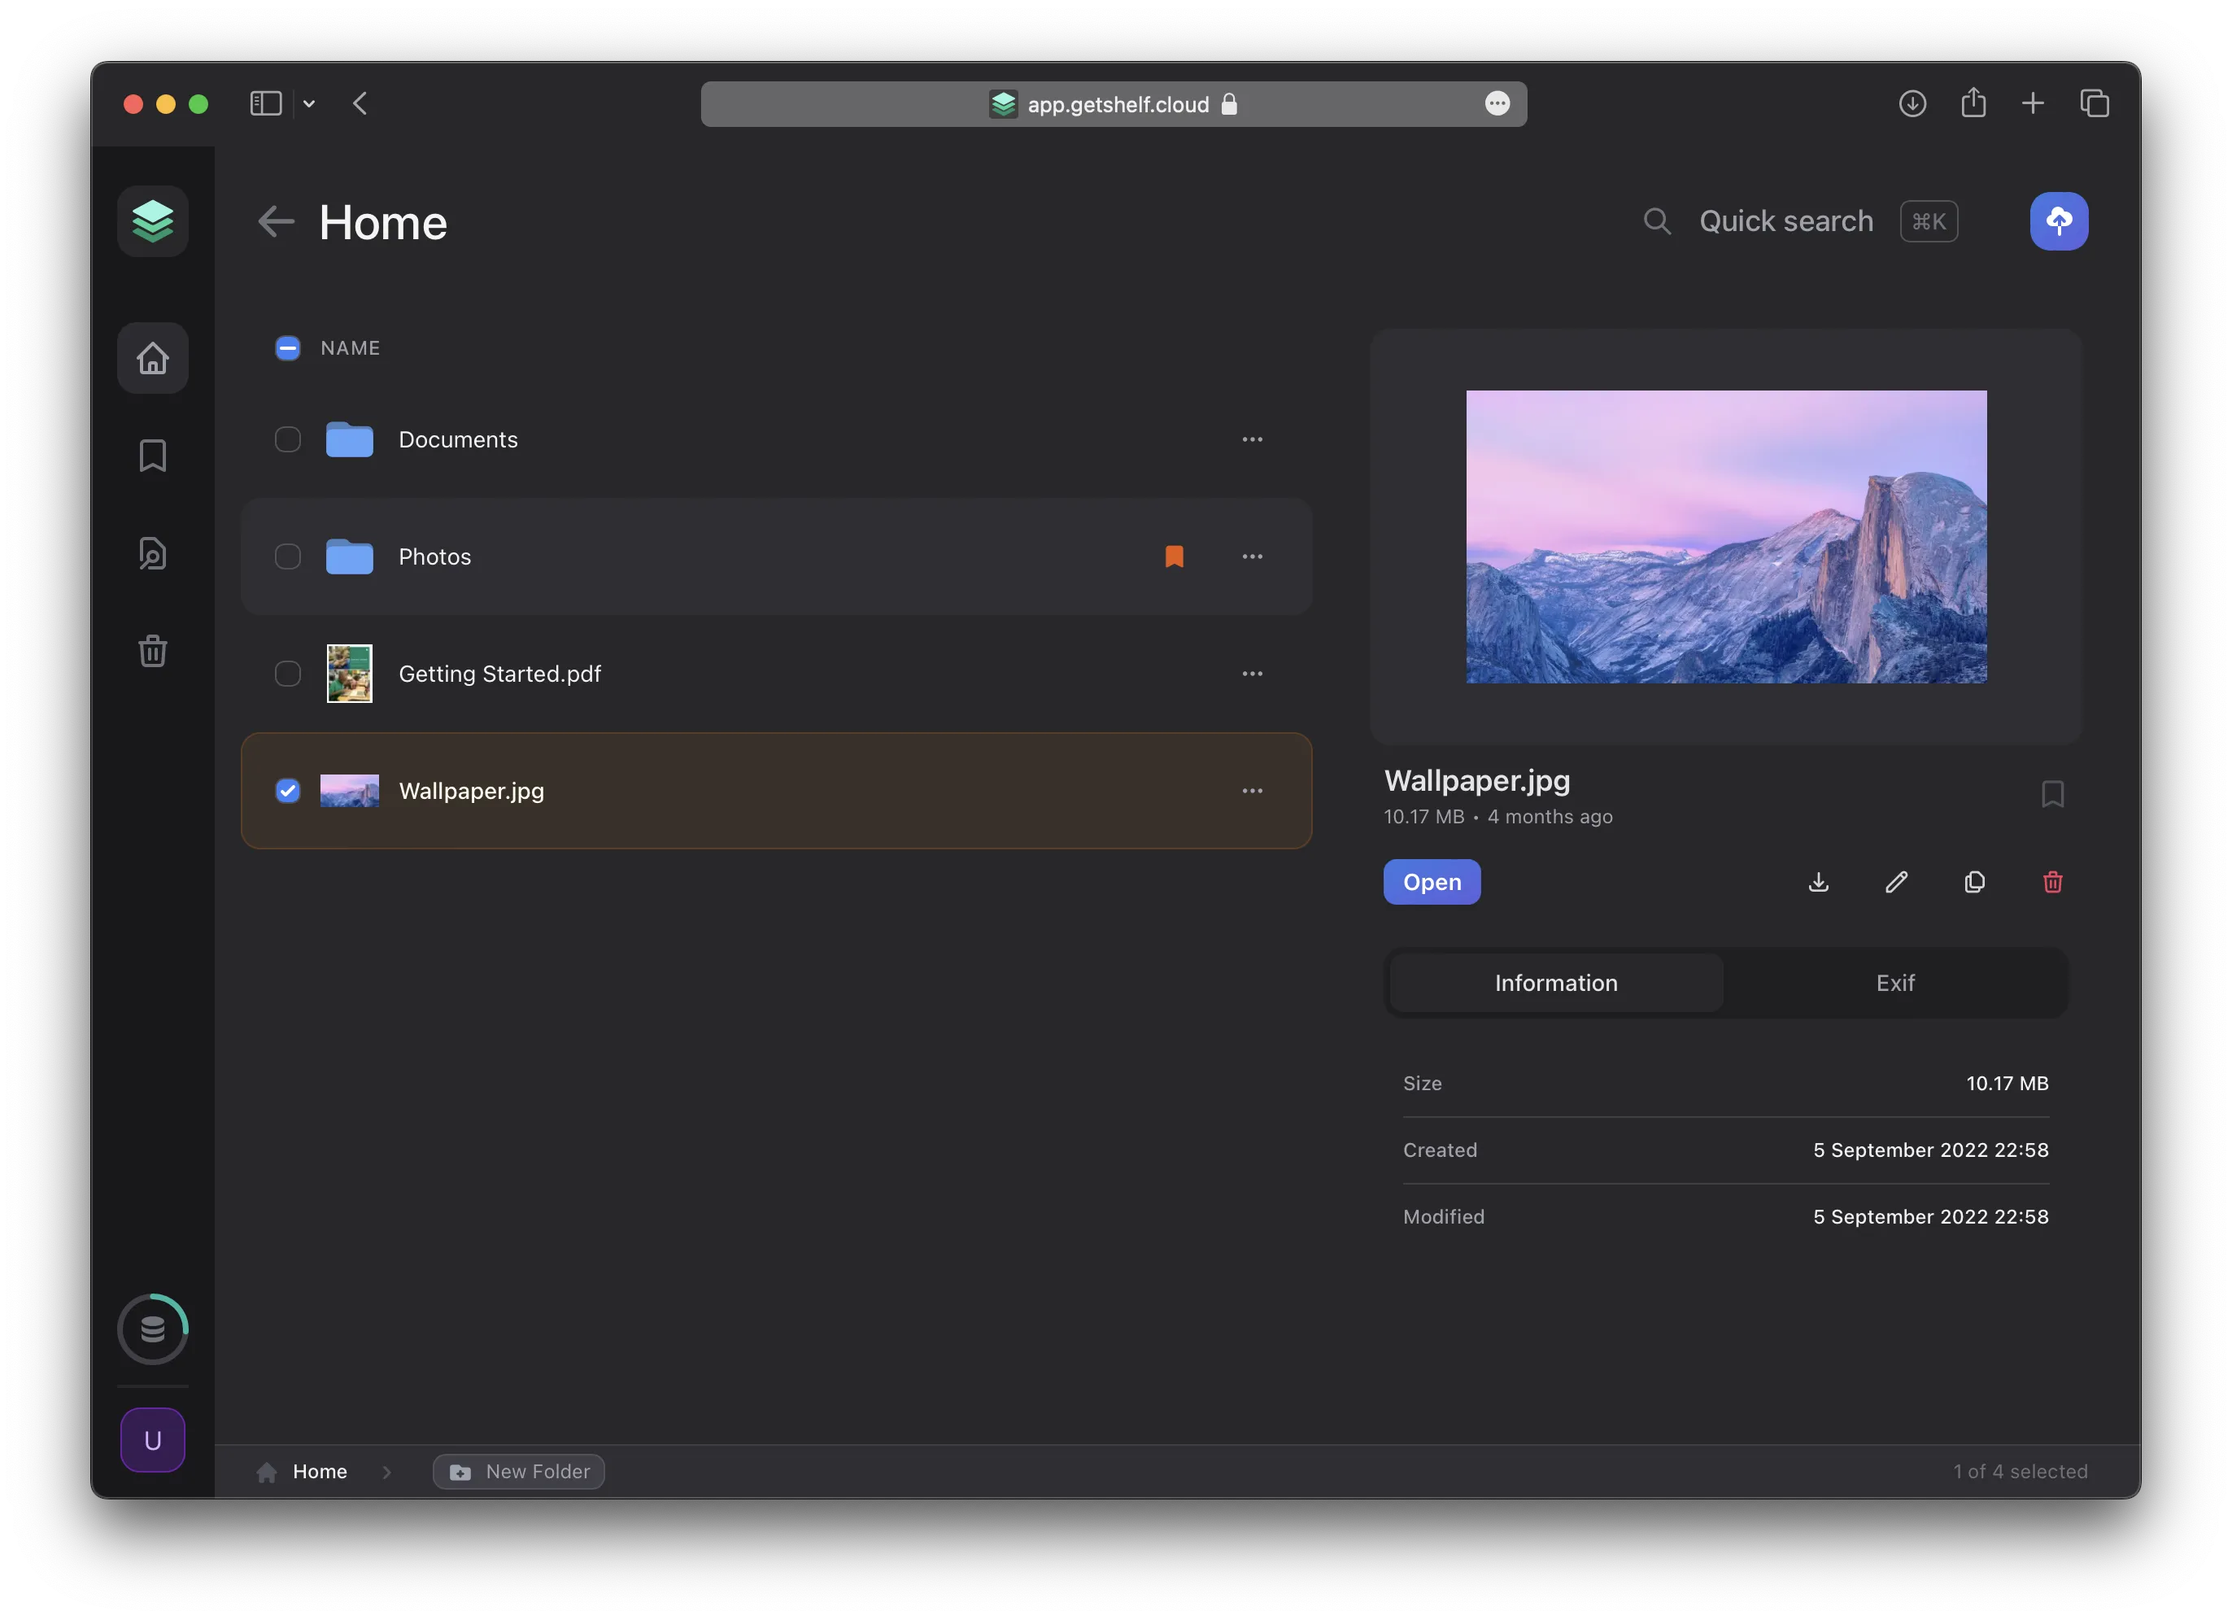
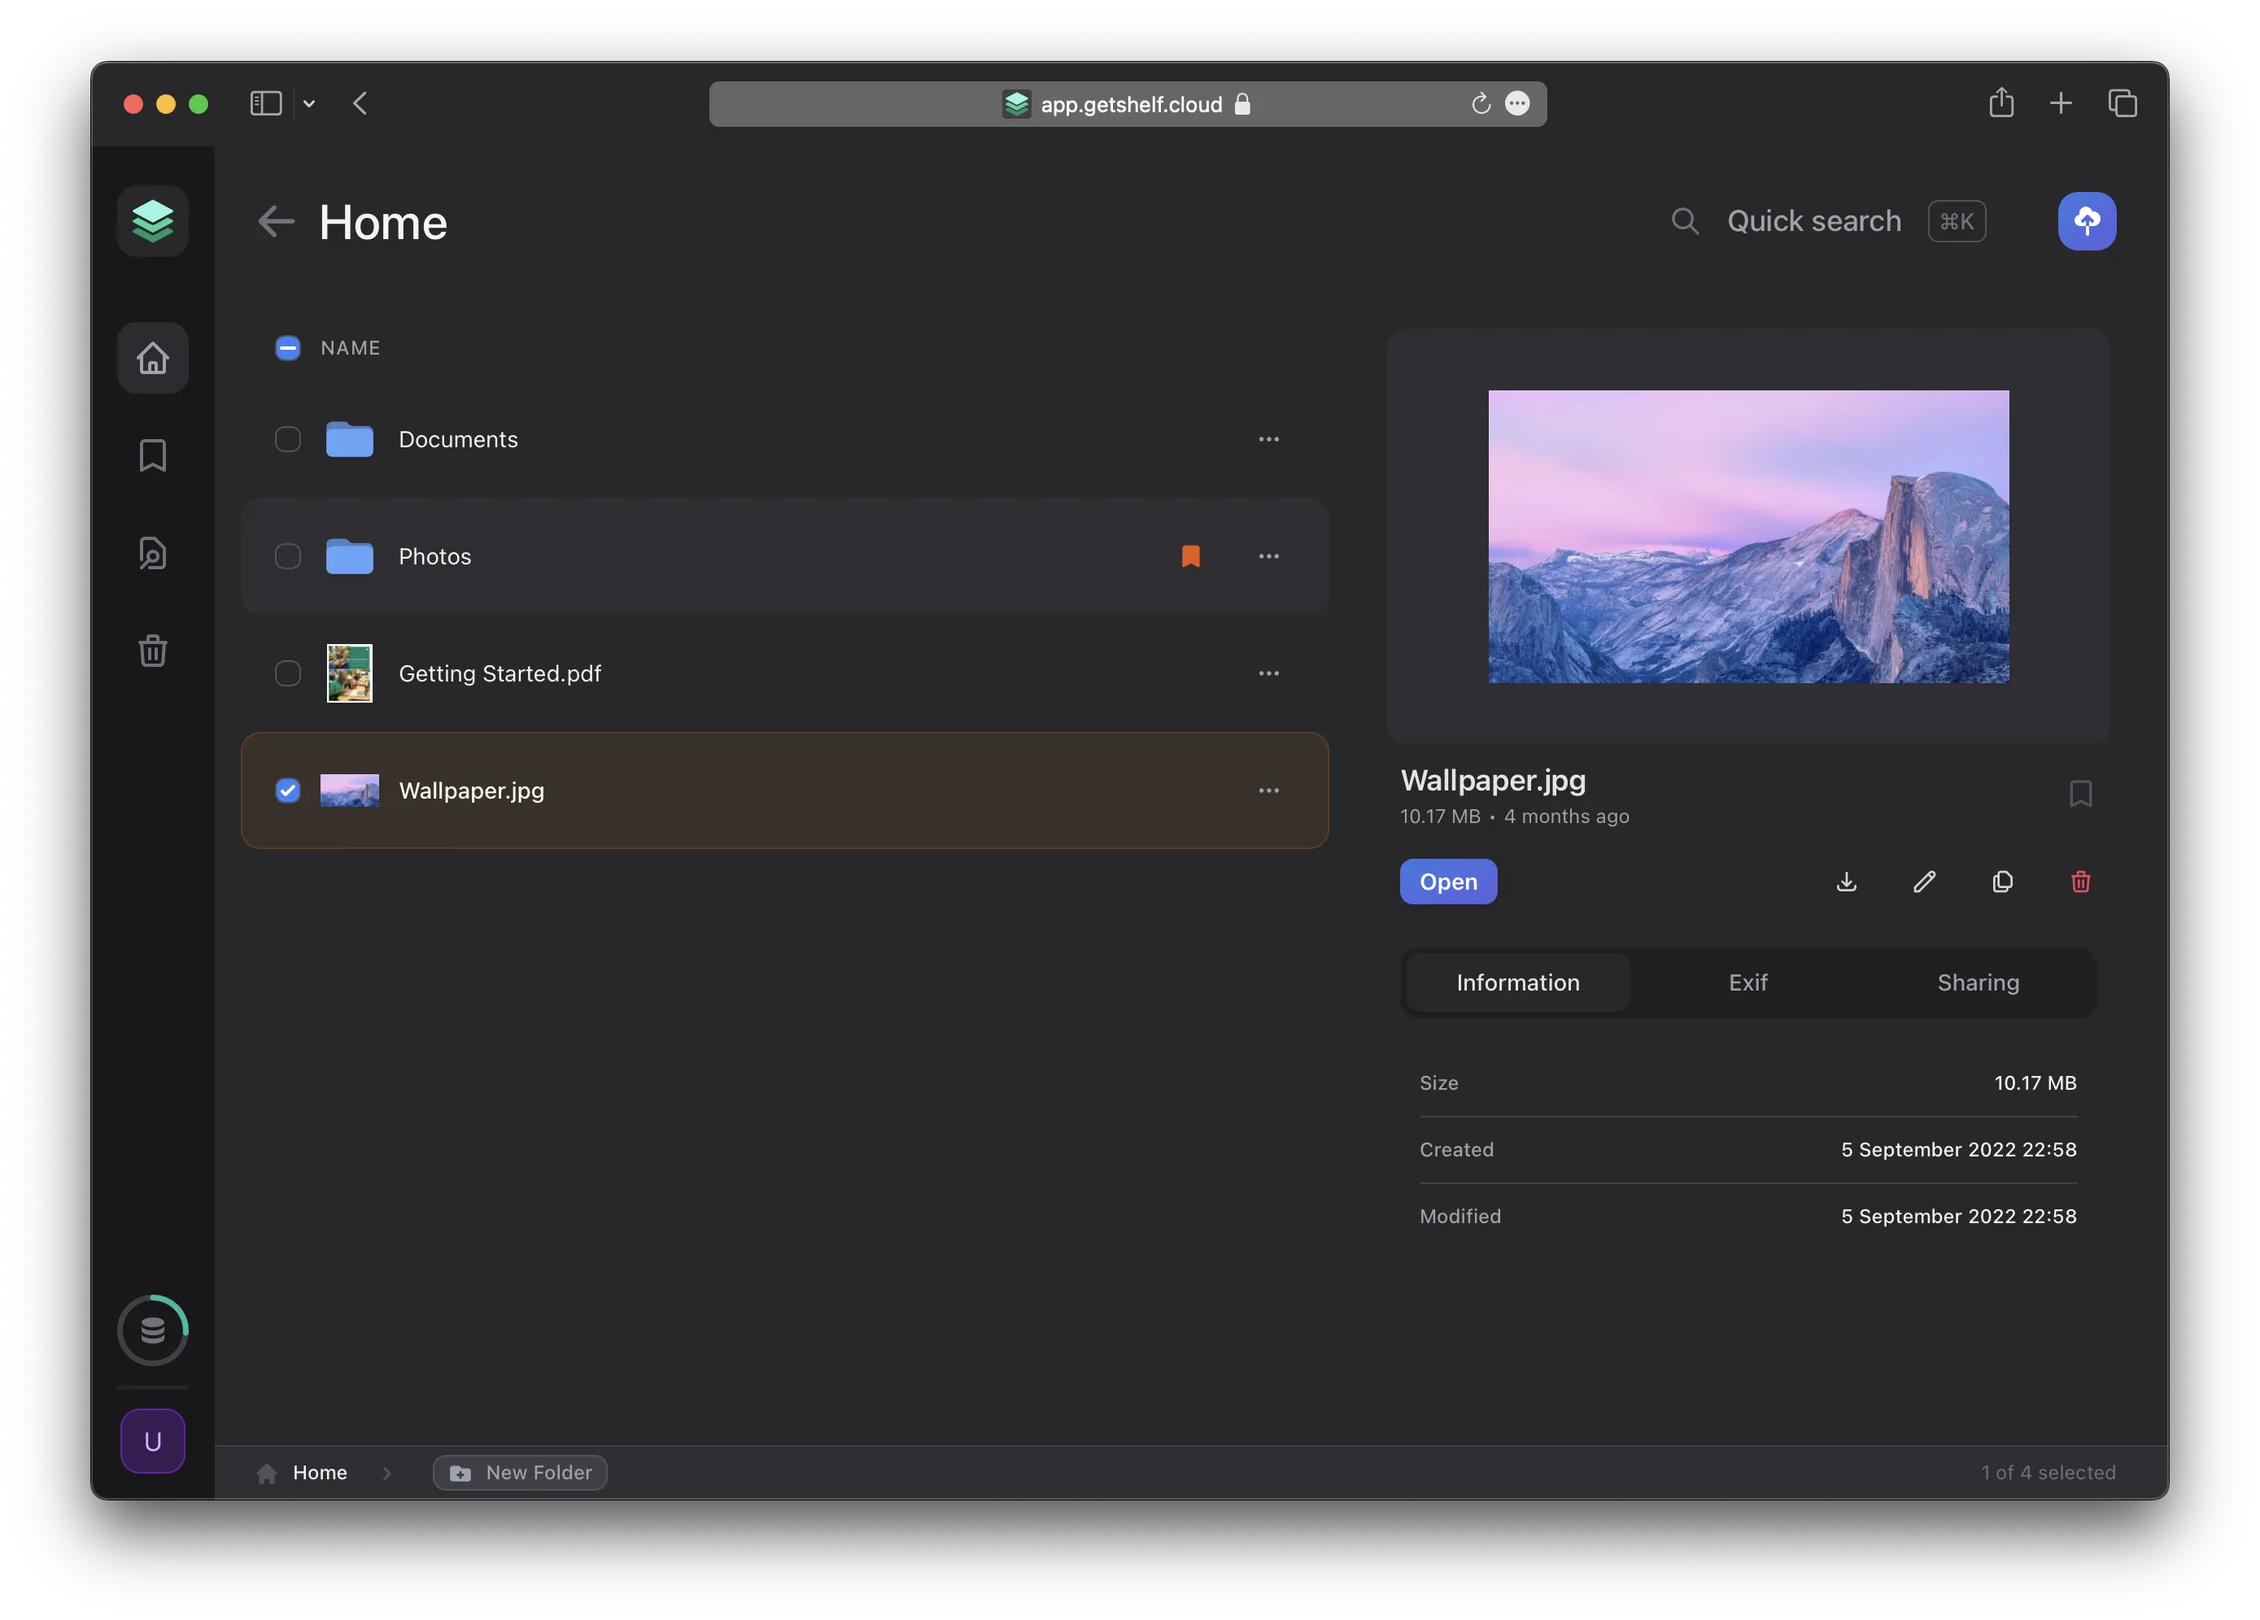
Public sharing is available

diff --git a/src/lib/components/Content.svelte b/src/lib/components/Content.svelte
@@ -20,7 +20,7 @@
       File manager that keeps your files organized
     </h1>
     <p
-      class="mt-10 max-w-2xl px-4 md:px-16 text-center text-lg font-light text-gray-500 dark:text-zinc-100/80 lg:px-0 lg:text-xl"
+      class="mt-10 max-w-2xl px-4 text-center text-lg font-light text-gray-500 dark:text-zinc-100/80 md:px-16 lg:px-0 lg:text-xl"
     >
       Shelf is a cloud and self-hosted open-source file manager with an accent on speed, efficience
       and reliability
@@ -142,7 +142,6 @@
       <FeatureItem
         title="Public Sharing"
         description="Share your files with your friends and colleguages"
-        comingSoon
       >
         <LinkOutlined slot="icon" />
       </FeatureItem>
